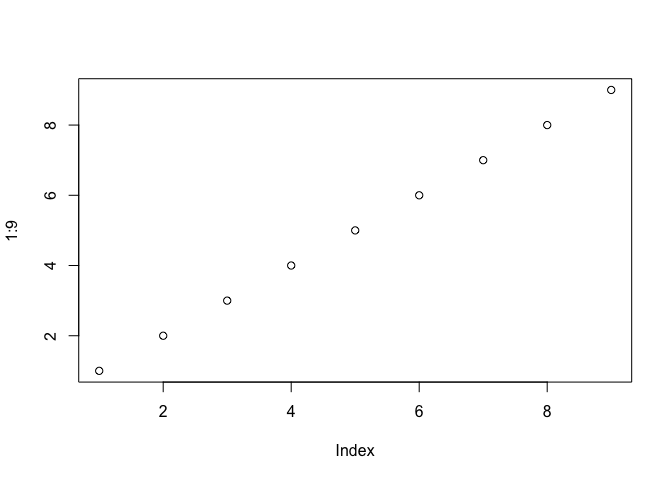
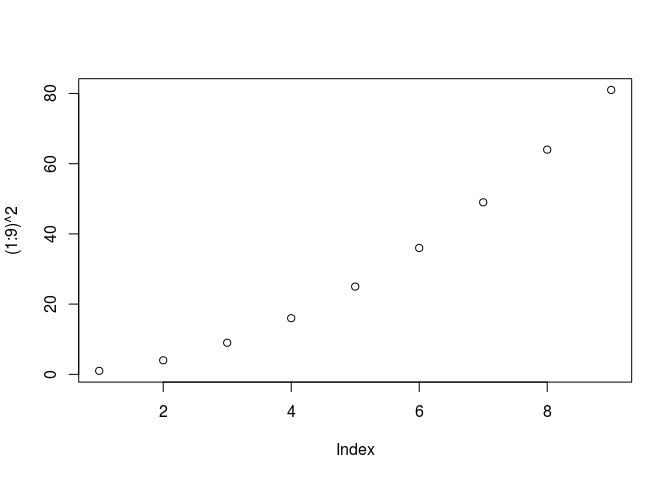
Make minor change

diff --git a/README.md b/README.md
@@ -1,14 +1,13 @@
 
+<!-- Challenge: change github_document to pdf_document and make it work -->
 Code for internship
 ===================
 
 ``` r
-plot(1:9)
+plot((1:9)^2)
 ```
 
 ![](README_files/figure-markdown_github-ascii_identifiers/unnamed-chunk-1-1.png)
-
-Test \[@Dirac1953888\]
 
 References
 ==========
